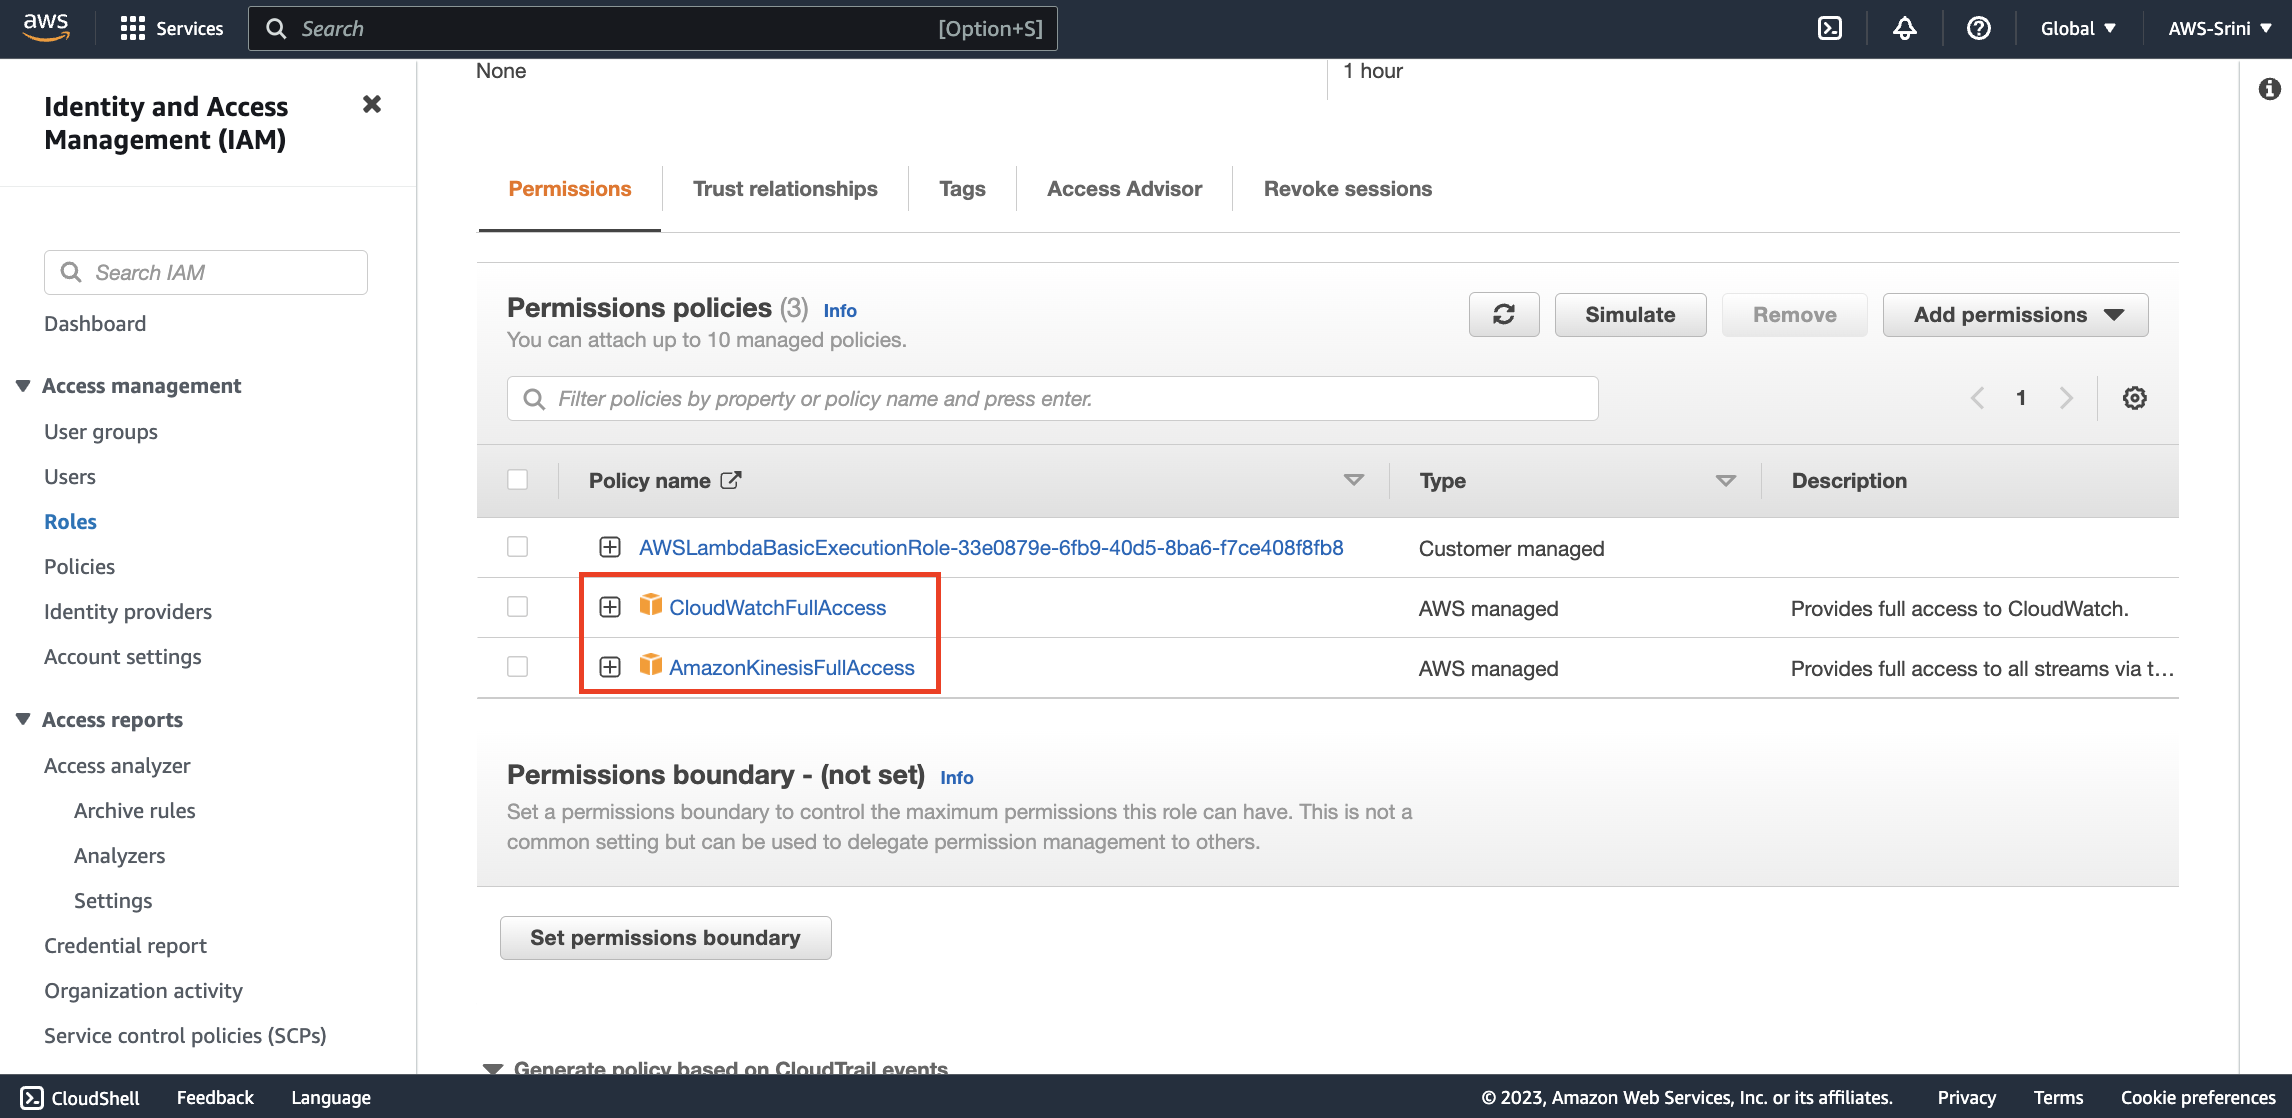
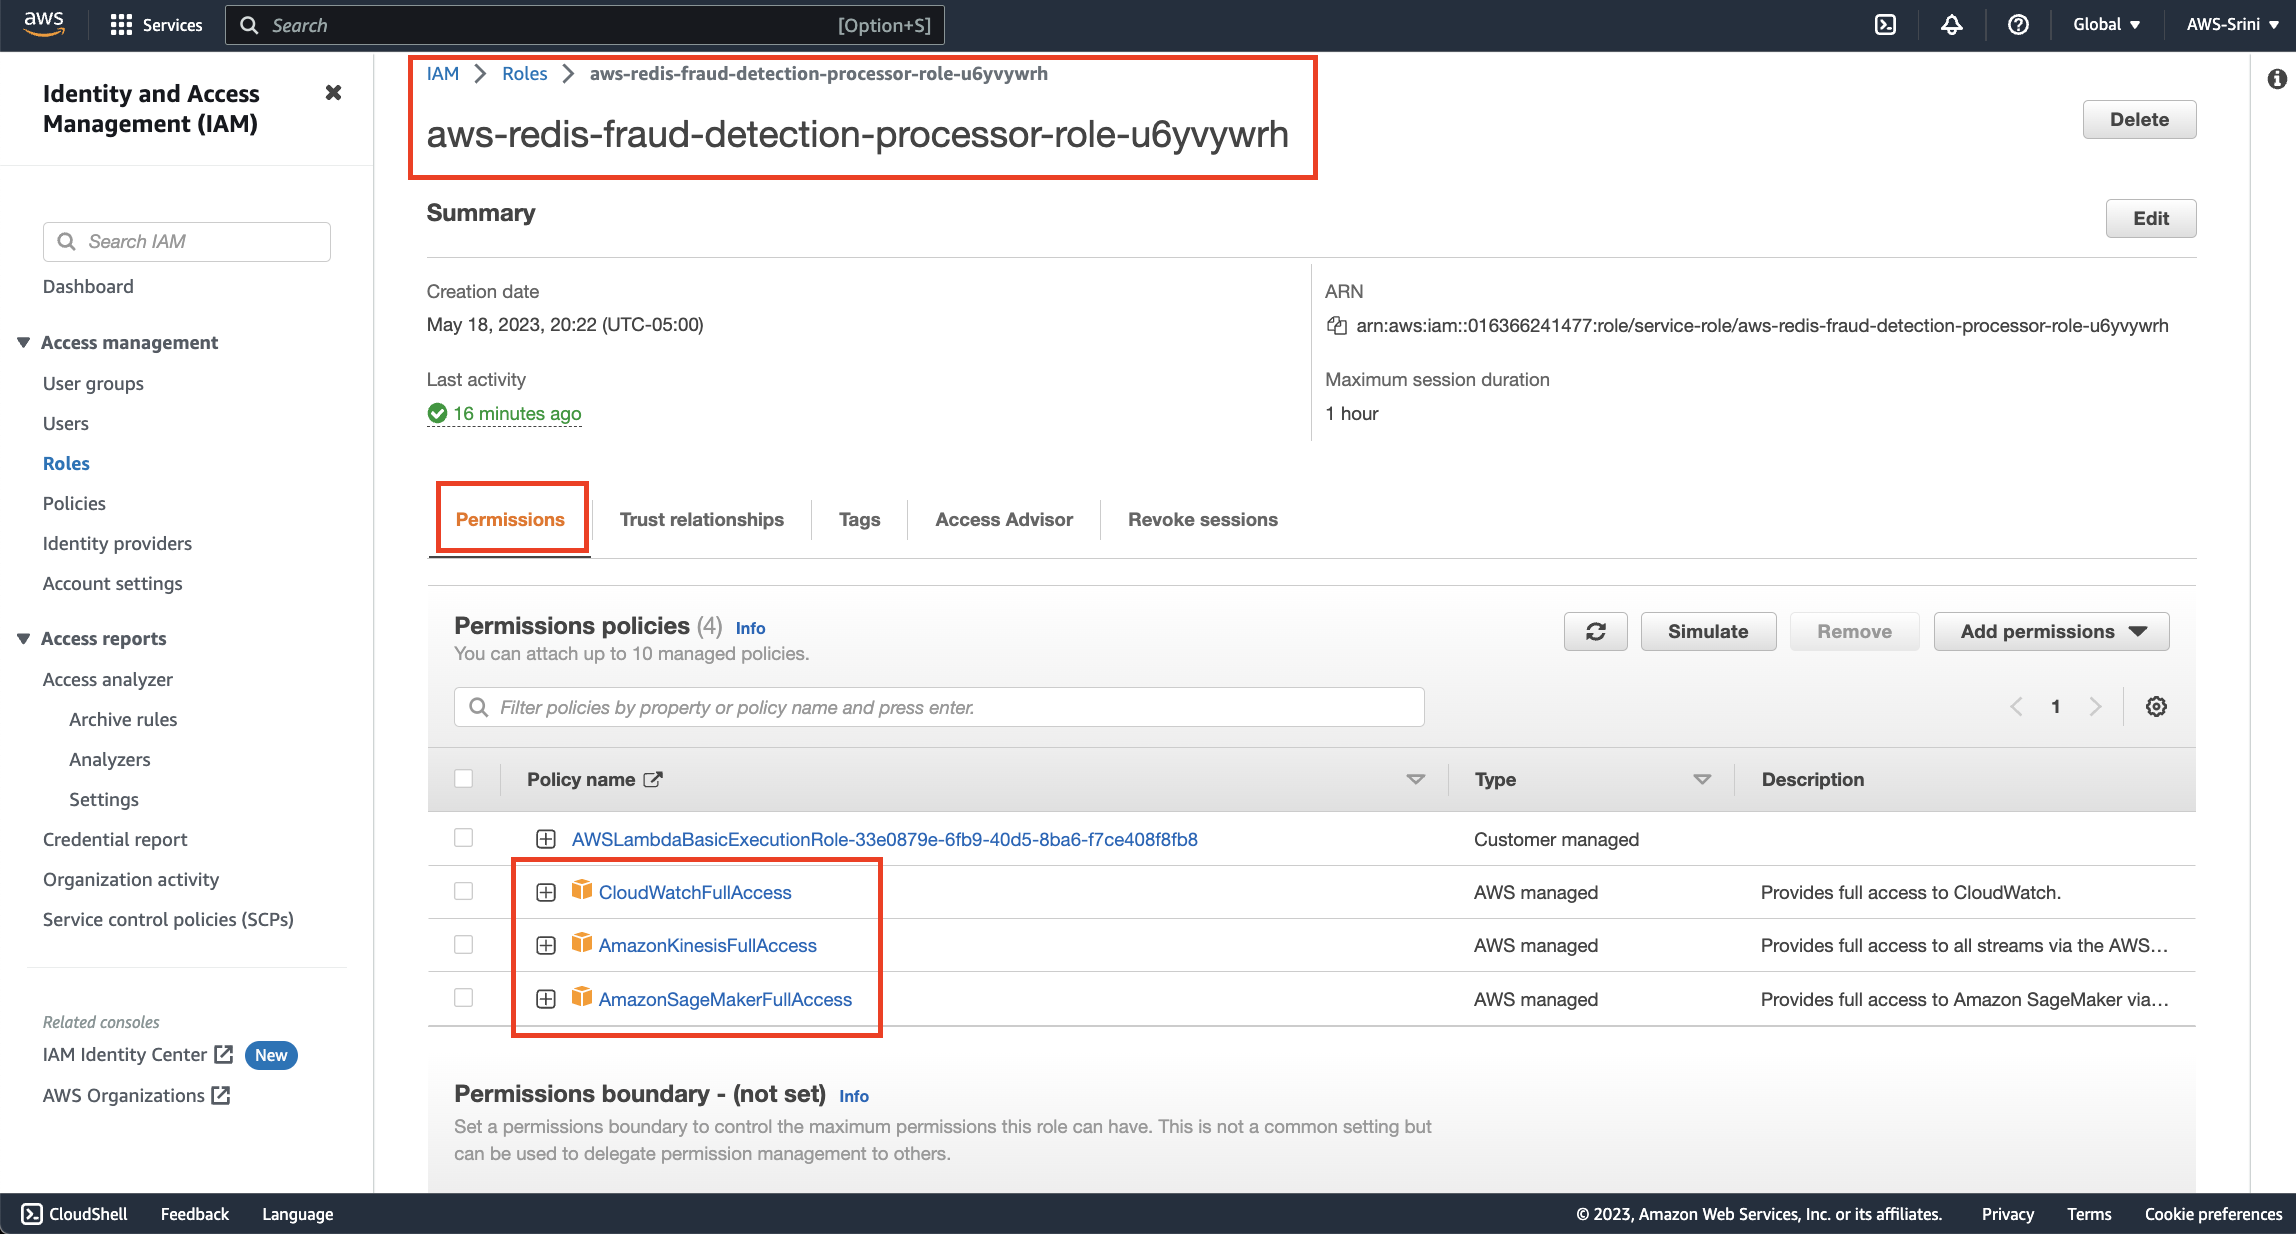
Corrected missing images for Lab 4

diff --git a/Lab 4 - Amazon Kinesis/README.md b/Lab 4 - Amazon Kinesis/README.md
@@ -78,19 +78,24 @@ An error occurred when creating the trigger: Cannot access stream arn:aws:kinesi
 
 ![](images/11-trigger.png)
 
-12. After adding these two permissions, your `Permission policies` for your lambda role should have these permissions added.
+12. Also, search for `SageMaker` and add `AmazonSageMakerFullAccess` permission
+
+![](images/11a-trigger.png)
+
+
+13. After adding these three permissions, your `Permission policies` for your lambda role should have these permissions added.
 
 ![](images/12-trigger.png)
 
-13. Now go back to your Lambda function and try adding the trigger again, by clicking on the `Add trigger` button.
+14. Now go back to your Lambda function and try adding the trigger again, by clicking on the `Add trigger` button.
 
 ![](images/13-trigger.png)
 
-14. Go ahead and configure Kinesis as the trigger with batch size = `1` and `Latest` as the starting position
+15. Go ahead and configure Kinesis as the trigger with batch size = `1` and `Latest` as the starting position
 
 ![](images/14-trigger.png)
 
-15. If everything goes well, your trigger is configured successfully as shown below.
+16. If everything goes well, your trigger is configured successfully as shown below.
 
 ![](images/15-trigger.png)
 
